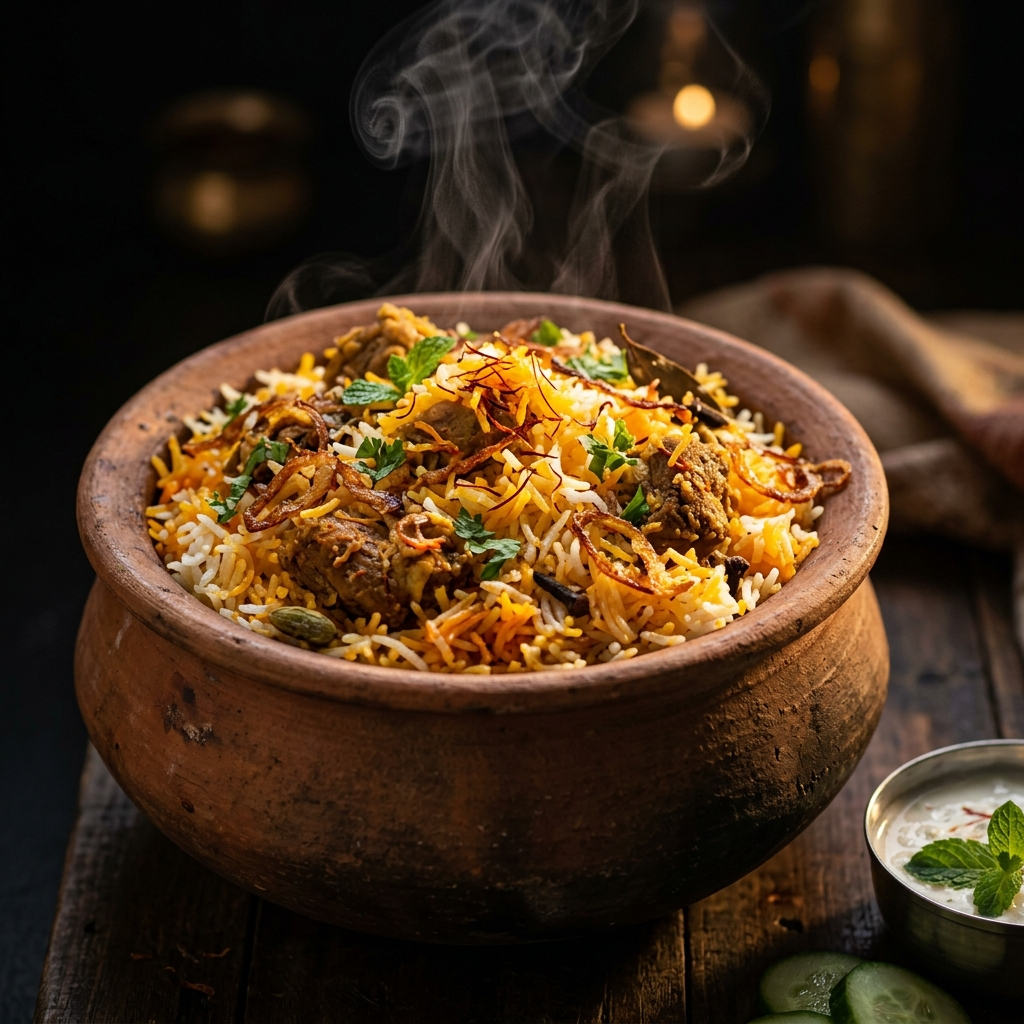
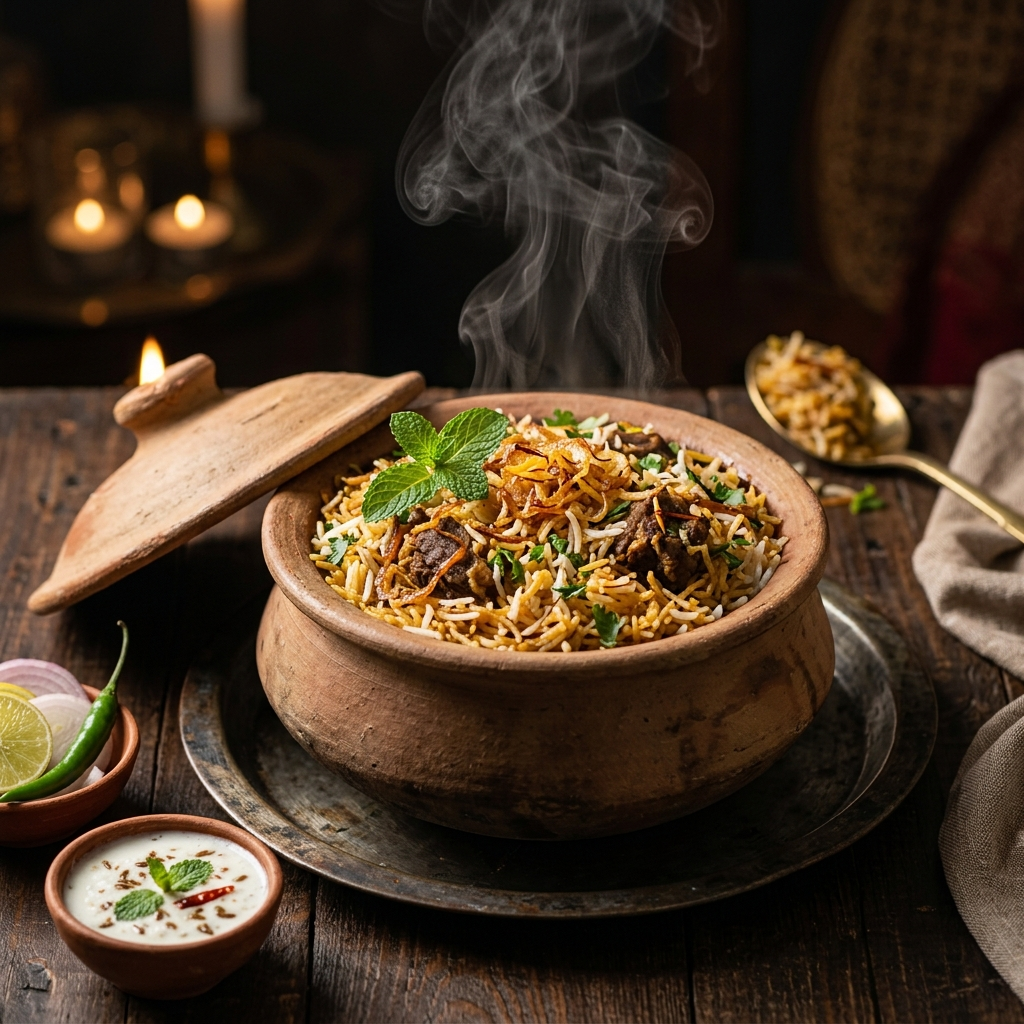
Rebrand to Cravings Kitchen Hyderabadi Biryani

diff --git a/src/components/About.tsx b/src/components/About.tsx
@@ -4,9 +4,9 @@ import { Users, Utensils, Star, ShieldCheck } from 'lucide-react';
 
 const About: React.FC = () => {
   const features = [
-    { icon: <Users size={24} />, title: 'Family Friendly', desc: 'Spacious for all' },
-    { icon: <Utensils size={24} />, title: 'Multi-Cuisine', desc: '50+ authentic dishes' },
-    { icon: <Star size={24} />, title: 'Premium Quality', desc: 'Top-tier ingredients' },
+    { icon: <Users size={24} />, title: 'Authentic Taste', desc: 'True Hyderabadi flavors' },
+    { icon: <Utensils size={24} />, title: 'Special Biryani', desc: 'Nizami recipe' },
+    { icon: <Star size={24} />, title: 'Premium Spices', desc: 'Handpicked ingredients' },
     { icon: <ShieldCheck size={24} />, title: 'Safe & Hygienic', desc: 'Sanitized kitchen' },
   ];
 
@@ -21,7 +21,7 @@ const About: React.FC = () => {
             className="lg:col-span-5 relative"
           >
             <div className="relative rounded-[48px] overflow-hidden border border-white/5 shadow-2xl">
-              <img src="/images/interior.png" alt="Di Table9 Ambience" className="w-full aspect-[4/5] object-cover" />
+              <img src="/images/interior.png" alt="Cravings Kitchen Ambience" className="w-full aspect-[4/5] object-cover" />
               <div className="absolute inset-0 bg-gradient-to-t from-dark/60 to-transparent" />
             </div>
             {/* Experience Badge */}
@@ -46,7 +46,7 @@ const About: React.FC = () => {
             <span className="text-[10px] text-primary-blue font-black uppercase tracking-[0.5em] mb-6 block">Our Story</span>
             <h2 className="mb-10 text-white">A Legacy of Taste and Luxury Ambience</h2>
             <p className="mb-8 text-lg md:text-xl leading-relaxed text-white/80">
-              Established with a passion for authentic flavors, Di Table9 has become Tirupati's landmark for premium dining. We bring together traditional recipes and modern culinary techniques to create a menu that speaks to the soul.
+              Established with a passion for authentic flavors, Cravings Kitchen has become the destination for premium Hyderabadi Biryani. We bring together traditional Nizami recipes and modern culinary techniques to create a menu that speaks to the soul.
             </p>
             <p className="mb-14 text-base md:text-lg leading-relaxed text-white/40 font-medium">
               Our restaurant is designed to offer a tranquil escape from the bustling city, with dim lighting, neon accents, and a warm atmosphere perfect for family gatherings and celebrations.

diff --git a/src/components/Hero.tsx b/src/components/Hero.tsx
@@ -9,7 +9,7 @@ const Hero: React.FC = () => {
       <div className="absolute inset-0 z-0">
         <img 
           src="/images/hero-bg.png" 
-          alt="Di Table9 Restaurant Exterior" 
+          alt="Cravings Kitchen Exterior" 
           className="w-full h-full object-cover"
         />
         <div className="absolute inset-0 bg-gradient-to-b from-dark/95 via-dark/40 to-dark" />
@@ -28,16 +28,16 @@ const Hero: React.FC = () => {
             transition={{ delay: 0.5 }}
             className="px-6 py-2 rounded-full bg-primary-blue/10 text-primary-blue text-[10px] font-black uppercase tracking-[0.5em] mb-12 border border-primary-blue/20 backdrop-blur-md"
           >
-            Fine Dining in Tirupati
+            Hyderabadi Biryani Experts
           </motion.div>
           
           <h1 className="mb-10 text-glow-yellow">
-            Di <span className="text-primary-yellow">Table9</span> <br />
-            Restaurant
+            Cravings <span className="text-primary-yellow">Kitchen</span> <br />
+            Hyderabadi Biryani
           </h1>
           
           <p className="text-lg md:text-xl text-white/60 mb-16 max-w-2xl leading-relaxed">
-            Experience the perfect synergy of luxury ambience and authentic multi-cuisine delicacies. A treat for your senses and soul.
+            Indulge in the authentic taste of Nizami traditions. We serve the most flavorful and aromatic Hyderabadi Biryani in town.
           </p>
 
           <div className="flex flex-col sm:flex-row gap-6 w-full sm:w-auto">

diff --git a/src/components/Footer.tsx b/src/components/Footer.tsx
@@ -12,11 +12,11 @@ const Footer: React.FC = () => {
         <div className="grid grid-cols-1 md:grid-cols-2 lg:grid-cols-4 gap-20 lg:gap-16 mb-24">
           <div className="lg:col-span-1">
             <div className="text-3xl font-black mb-10 tracking-tighter">
-              <span className="text-white">Di</span>
-              <span className="text-primary-yellow">Table9</span>
+              <span className="text-white">Cravings</span>
+              <span className="text-primary-yellow">Kitchen</span>
             </div>
             <p className="text-base leading-relaxed mb-12 text-white/40 font-medium max-w-xs">
-              Tirupati's premier destination for multi-cuisine excellence and luxury night ambience. Creating memories through taste since 2014.
+              The ultimate destination for authentic Hyderabadi Biryani and Nizami flavors. Bringing the royal taste of Hyderabad to your plate.
             </p>
             <div className="flex gap-5">
               {[Camera, Share2, MessageSquare, Play].map((Icon, i) => (
@@ -71,7 +71,7 @@ const Footer: React.FC = () => {
 
         <div className="flex flex-col md:flex-row justify-between items-center pt-16 border-t border-white/5 gap-10">
           <p className="text-[10px] font-black uppercase tracking-[0.3em] text-white/20 text-center md:text-left leading-loose">
-            © 2026 Di Table9 Restaurant. Crafted for Tirupati's Finest.
+            © 2026 Cravings Kitchen Hyderabadi Biryani. All Rights Reserved.
           </p>
           <button 
             onClick={scrollToTop}

diff --git a/src/components/Header.tsx b/src/components/Header.tsx
@@ -34,8 +34,8 @@ const Header: React.FC = () => {
             animate={{ opacity: 1, x: 0 }}
             className="text-2xl md:text-3xl font-black tracking-tighter flex items-center gap-1 z-[110]"
           >
-            <span className="text-white">Di</span>
-            <span className="text-primary-yellow text-glow-yellow">Table9</span>
+            <span className="text-white">Cravings</span>
+            <span className="text-primary-yellow text-glow-yellow">Kitchen</span>
           </motion.a>
 
           {/* Desktop Nav */}

diff --git a/src/components/Location.tsx b/src/components/Location.tsx
@@ -10,7 +10,7 @@ const Location: React.FC = () => {
           <div className="flex flex-col lg:flex-row">
             <div className="lg:w-1/2 p-10 md:p-16 lg:p-20">
               <span className="text-[10px] text-primary-blue font-black uppercase tracking-[0.5em] mb-6 block">Visit Us</span>
-              <h2 className="text-left text-white mb-16 leading-[1.1]">The Culinary Heart of Tirupati</h2>
+              <h2 className="text-left text-white mb-16 leading-[1.1]">The Home of Authentic Biryani</h2>
               
               <div className="space-y-12">
                 <div className="flex gap-8 items-start group">
@@ -41,7 +41,7 @@ const Location: React.FC = () => {
                   <div>
                     <h4 className="text-xs font-black uppercase tracking-[0.3em] text-white mb-3">Direct Contact</h4>
                     <p className="text-xl md:text-2xl font-black text-white mb-1">[phone redacted]</p>
-                    <p className="text-xs text-white/20 font-black uppercase tracking-widest">[email redacted]</p>
+                    <p className="text-xs text-white/20 font-black uppercase tracking-widest">[email redacted]</p>
                   </div>
                 </div>
 

diff --git a/src/components/MenuSection.tsx b/src/components/MenuSection.tsx
@@ -2,8 +2,8 @@ import React, { useState } from 'react';
 import { motion, AnimatePresence } from 'framer-motion';
 
 const MenuSection: React.FC = () => {
-  const categories = ['Starters', 'Biryani', 'Main Course', 'Beverages'];
-  const [activeCategory, setActiveCategory] = useState('Starters');
+  const categories = ['Biryani', 'Starters', 'Main Course', 'Beverages'];
+  const [activeCategory, setActiveCategory] = useState('Biryani');
 
   const menuItems: Record<string, any[]> = {
     'Starters': [

diff --git a/index.html b/index.html
@@ -4,7 +4,7 @@
     <meta charset="UTF-8" />
     <link rel="icon" type="image/svg+xml" href="/favicon.svg" />
     <meta name="viewport" content="width=device-width, initial-scale=1.0" />
-    <title>di-table9-restaurant</title>
+    <title>Cravings Kitchen - Hyderabadi Biryani</title>
   </head>
   <body>
     <div id="root"></div>

diff --git a/src/components/BookingForm.tsx b/src/components/BookingForm.tsx
@@ -13,7 +13,7 @@ const BookingForm: React.FC = () => {
                 <PartyPopper size={16} />
                 Special Celebrations
               </span>
-              <h2 className="text-left text-white mb-8 leading-[1.1]">Reserve Your Experience at Table9</h2>
+              <h2 className="text-left text-white mb-8 leading-[1.1]">Reserve Your Experience at Cravings Kitchen</h2>
               <p className="mb-12 text-lg md:text-xl leading-relaxed text-white/60">
                 Planning a special celebration or a family reunion? Secure your spot now and let our chefs create a custom memory for you.
               </p>

diff --git a/src/components/Gallery.tsx b/src/components/Gallery.tsx
@@ -16,7 +16,7 @@ const Gallery: React.FC = () => {
       <div className="max-w-7xl mx-auto px-6 md:px-10 lg:px-12">
         <div className="text-center mb-16 md:mb-24">
           <span className="text-[10px] text-primary-yellow font-black uppercase tracking-[0.6em] mb-4 block">Visual Journey</span>
-          <h2 className="text-white">A Glimpse into Table9</h2>
+          <h2 className="text-white">A Glimpse into Cravings Kitchen</h2>
         </div>
 
         <div className="grid grid-cols-2 md:grid-cols-4 gap-4 md:gap-8 auto-rows-[250px] md:auto-rows-[300px]">

diff --git a/src/components/Reviews.tsx b/src/components/Reviews.tsx
@@ -6,7 +6,7 @@ const Reviews: React.FC = () => {
   const reviews = [
     { name: 'Rahul Sharma', rating: 5, text: 'The best Biryani I have ever had in Tirupati. The ambience is truly premium and perfect for family dinners.', date: '2 days ago' },
     { name: 'Priya Reddy', rating: 4, text: 'Great place with amazing service. The staff is very polite and the neon theme looks fantastic at night.', date: '1 week ago' },
-    { name: 'Anil Kumar', rating: 5, text: 'Table9 is my go-to place for birthday celebrations. Their Tandoori platter is a must-try!', date: '3 days ago' },
+    { name: 'Anil Kumar', rating: 5, text: 'Cravings Kitchen is my go-to place for birthday celebrations. Their Dum Biryani is a must-try!', date: '3 days ago' },
     { name: 'Sneha Rao', rating: 5, text: 'Very hygienic and well-maintained. The lighting creates a very warm and inviting atmosphere.', date: '2 weeks ago' },
   ];
 

diff --git a/src/components/TopDishes.tsx b/src/components/TopDishes.tsx
@@ -5,7 +5,7 @@ import { Flame } from 'lucide-react';
 const TopDishes: React.FC = () => {
   const trending = [
     { name: 'Mutton Dum Biryani', orders: '120+ ordered today', image: '/images/biryani.png' },
-    { name: 'Dragon Chicken', orders: '85+ ordered today', image: 'https://images.unsplash.com/photo-1525755662778-989d0524087e?auto=format&fit=crop&q=80&w=800' },
+    { name: 'Special Chicken Biryani', orders: '85+ ordered today', image: '/images/hero-bg.png' },
     { name: 'Virgin Mojito', orders: '50+ ordered today', image: 'https://images.unsplash.com/photo-1513558161293-cdaf765ed2fd?auto=format&fit=crop&q=80&w=800' },
   ];
 